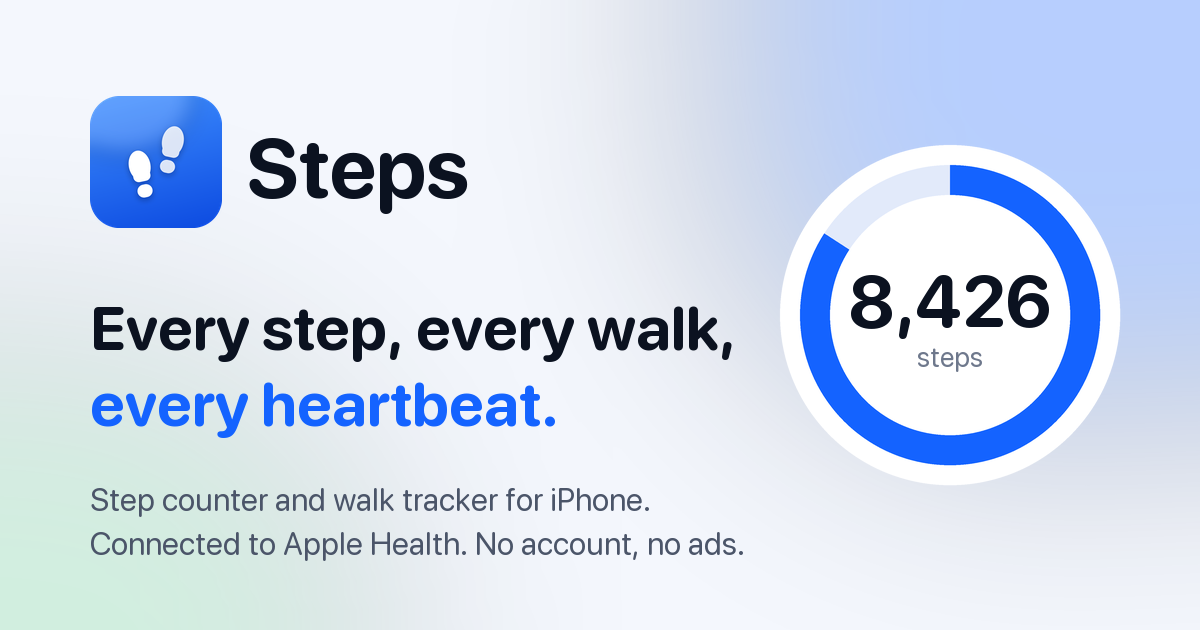
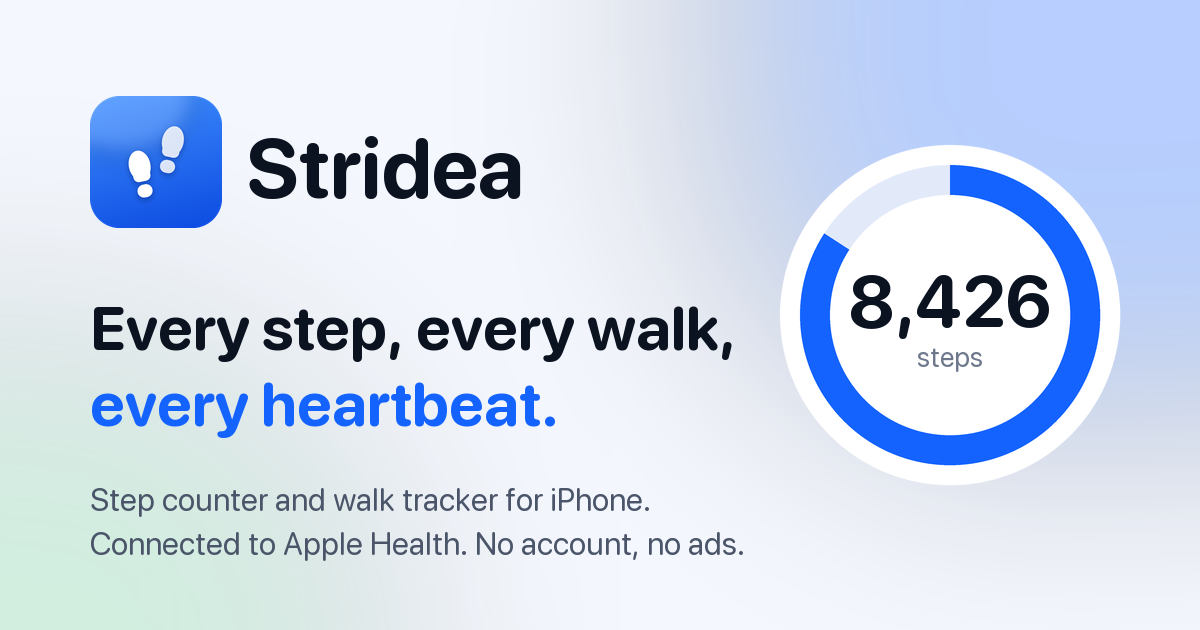
Rename the app to Stridea and serve the site at stridea.ardasnturk.com
- App name, package name, README and the social image now say Stridea
- Mocks and walk copy follow the app: three tabs and a floating walk button
- Add public/CNAME and SITE_URL (canonical, og:url, og:image)
- Deploy to GitHub Pages on every push to main

Changed region(s): [[0.2775, 0.2111, 0.4317, 0.3317]]

diff --git a/src/pages/home/mocks.tsx b/src/pages/home/mocks.tsx
@@ -210,18 +210,18 @@ export function MapArt({ drawn = true, duration = 1600, viewBox = "0 0 300 460",
 /* ---------- Screens ---------- */
 
 function TabBar() {
-  const side: IconName[] = ["target", "calendar", "chart", "heart"];
+  // The app's three tabs (Home, History, Stats) and the floating button that starts a walk.
+  const tabs: IconName[] = ["target", "calendar", "chart"];
   return (
-    <div className="mx-1 flex h-13 shrink-0 items-center justify-between rounded-4xl bg-white px-5 shadow-card dark:bg-ios-card-dark" aria-hidden="true">
-      {side.slice(0, 2).map((name, index) => (
-        <Icon key={name} name={name} className={`h-5 w-5 ${index === 0 ? "text-brand" : "text-gray-400"}`} />
-      ))}
-      <span className="-mt-5 flex h-13 w-13 items-center justify-center rounded-full bg-brand text-white shadow-lg shadow-brand/40 ring-4 ring-ios-bg dark:ring-night">
+    <div className="mx-1 flex shrink-0 items-center gap-2" aria-hidden="true">
+      <div className="flex h-13 flex-1 items-center justify-around rounded-4xl bg-white px-4 shadow-card dark:bg-ios-card-dark">
+        {tabs.map((name, index) => (
+          <Icon key={name} name={name} className={`h-5 w-5 ${index === 0 ? "text-brand" : "text-gray-400"}`} />
+        ))}
+      </div>
+      <span className="flex h-13 w-13 shrink-0 items-center justify-center rounded-full bg-brand text-white shadow-lg shadow-brand/40">
         <Icon name="walk" className="h-6 w-6" />
       </span>
-      {side.slice(2).map((name) => (
-        <Icon key={name} name={name} className="h-5 w-5 text-gray-400" />
-      ))}
     </div>
   );
 }

diff --git a/src/i18n/home/tr.ts b/src/i18n/home/tr.ts
@@ -101,7 +101,7 @@ export const tr: HomeDictionary = {
       walk: {
         label: "Yürüyüşler",
         title: "Yürüyüşünü canlı haritada takip et",
-        text: "Başlamak için ortadaki düğmeye dokun. {app} sen yürüdükçe rotanı çizer; süre, mesafe, adım ve tempo hep gözünün önündedir.",
+        text: "Başlamak için yüzen yürüyüş düğmesine dokun. {app} sen yürüdükçe rotanı çizer; süre, mesafe, adım ve tempo hep gözünün önündedir.",
         points: [
           "Rotanın çizildiği canlı harita",
           "Süre, mesafe, adım ve tempo",
@@ -150,9 +150,9 @@ export const tr: HomeDictionary = {
   walk: {
     eyebrow: "Yürüyüş takibi",
     title: "Tek dokunuşla yürüyüşe başla",
-    subtitle: "Ayar yok, seçilecek mod yok. Ortadaki düğmeye bas ve yürü.",
+    subtitle: "Ayar yok, seçilecek mod yok. Yüzen yürüyüş düğmesine bas ve yürü.",
     steps: [
-      { title: "Ortadaki düğmeye dokun", text: "Yürüyüş hemen başlar, karşına canlı harita gelir." },
+      { title: "Yürüyüş düğmesine dokun", text: "Yürüyüş hemen başlar, karşına canlı harita gelir." },
       { title: "Rotanın oluşmasını izle", text: "Sen ilerledikçe rotan çizilir. Süre, mesafe, adım ve tempo canlı güncellenir; dilediğinde duraklatıp devam edebilirsin." },
       { title: "Apple Sağlık'ta hazır", text: "Bitirdiğinde yürüyüşün, rotasıyla birlikte yürüyüş antrenmanı olarak Apple Sağlık'a kaydedilir." },
     ],

diff --git a/src/i18n/home/en.ts b/src/i18n/home/en.ts
@@ -101,7 +101,7 @@ export const en: HomeDictionary = {
       walk: {
         label: "Walks",
         title: "Track a walk on a live map",
-        text: "Tap the centre button to start. {app} draws your route as you go and keeps time, distance, steps and pace in view.",
+        text: "Tap the floating walk button to start. {app} draws your route as you go and keeps time, distance, steps and pace in view.",
         points: [
           "Live map with your route drawn on it",
           "Timer, distance, steps and pace",
@@ -150,9 +150,9 @@ export const en: HomeDictionary = {
   walk: {
     eyebrow: "Walk tracking",
     title: "Start a walk with one tap",
-    subtitle: "No setup and no modes to choose. Press the centre button and go.",
+    subtitle: "No setup and no modes to choose. Press the floating walk button and go.",
     steps: [
-      { title: "Tap the centre button", text: "The walk starts right away, with a live map in front of you." },
+      { title: "Tap the walk button", text: "The walk starts right away, with a live map in front of you." },
       { title: "Watch it take shape", text: "Your route is drawn as you move. Timer, distance, steps and pace update live, and you can pause and resume." },
       { title: "It's in Apple Health", text: "When you finish, the walk is saved to Apple Health as a walking workout, route included." },
     ],

diff --git a/src/config.ts b/src/config.ts
@@ -5,8 +5,8 @@
  * HTML entries use `%APP_NAME%`, which `vite.config.ts` fills in.
  */
 
-/** Working name. Renaming the app = changing this line. */
-export const APP_NAME = "Steps";
+/** App name. Renaming the app = changing this line. */
+export const APP_NAME = "Stridea";
 export const BUNDLE_ID = "com.ardasnturk.steps";
 export const DEVELOPER = "Arda Sentürk";
 export const SUPPORT_EMAIL = "support@ardasnturk.com";
@@ -20,10 +20,10 @@ export const MIN_IOS = "18";
 export const APP_STORE_URL: string | null = null;
 
 /**
- * Public address of the site without a trailing slash, e.g. "https://steps.example.com".
- * `null` = no domain chosen yet: canonical and og:url tags are left out.
+ * Public address of the site without a trailing slash, must match `public/CNAME`.
+ * `null` = no domain: canonical and og:url tags are left out.
  */
-export const SITE_URL: string | null = null;
+export const SITE_URL: string | null = "https://stridea.ardasnturk.com";
 
 export type ScreenSlot = "today" | "walk" | "zones" | "metrics" | "insights";
 

diff --git a/scripts/make_assets.py b/scripts/make_assets.py
@@ -4,7 +4,7 @@ from pathlib import Path
 from PIL import Image, ImageDraw, ImageFilter, ImageFont
 
 OUT = Path(__file__).resolve().parent.parent / "public" / "assets"
-NAME = sys.argv[1] if len(sys.argv) > 1 else "Steps"
+NAME = sys.argv[1] if len(sys.argv) > 1 else "Stridea"
 TOP, BOTTOM = (62, 142, 255), (12, 74, 224)
 SS = 4  # supersampling
 

diff --git a/README.md b/README.md
@@ -1,8 +1,8 @@
-# Steps website
+# Stridea website
 
-Landing page, privacy policy, terms of use and support page for the step-counter and
-walk-tracker app for iPhone (working name **Steps**; the final name is not decided yet),
-in English and Turkish.
+Landing page, privacy policy, terms of use and support page for **Stridea**, the
+step-counter and walk-tracker app for iPhone, in English and Turkish. Live at
+<https://stridea.ardasnturk.com/>.
 
 What the site presents, and what has to stay in step with the app:
 
@@ -13,7 +13,9 @@ What the site presents, and what has to stay in step with the app:
   ("For You", plus the on-device "Your Week in Words" summary on iPhones with Apple
   Intelligence), walking analysis, motion analysis and walking metrics. PRO items carry
   the `ProBadge` (`src/components/ProBadge.tsx`).
-- **No prices on the site.** They are not set; the copy only names the plan types.
+- **No prices on the site.** The copy only names the plan types; the app shows the prices.
+- **App structure the copy and mocks assume:** three tabs (Home, History, Stats), a
+  floating button that starts a walk, Settings in the header.
 - The privacy policy, terms and support page describe Apple Health, Motion & Fitness,
   location, in-app purchases and RevenueCat. Update them whenever the app starts reading
   new data or adds an SDK.
@@ -44,7 +46,7 @@ Everything that changes with the name or the release lives in `src/config.ts`:
 | `BUNDLE_ID` | `com.ardasnturk.steps` |
 | `SUPPORT_EMAIL`, `DEVELOPER`, `MIN_IOS` | Shown in the copy and the legal pages. |
 | `APP_STORE_URL` | `null` until the app is released: store buttons render as a non-link "Coming soon to the App Store" label. Set it to the App Store URL to turn them into download links. |
-| `SITE_URL` | `null` until a domain is chosen: canonical and `og:url` tags are left out and `og:image` is a relative path. Set it (no trailing slash) once the site has an address. |
+| `SITE_URL` | `https://stridea.ardasnturk.com` (no trailing slash; must match `public/CNAME`). Used for the canonical, `og:url` and `og:image` tags. |
 
 The name is never written out in components or translations. Translations use the tokens
 `{app}`, `{email}`, `{developer}` and `{ios}` (filled in by `src/i18n/index.tsx`); the HTML
@@ -97,7 +99,7 @@ normal Tailwind spacing classes and `fs-<px>` for font sizes (see `.mock` in
 placeholders generated by a script (needs Python with Pillow):
 
 ```bash
-python3 scripts/make_assets.py            # uses the name "Steps"
+python3 scripts/make_assets.py            # uses the name "Stridea"
 python3 scripts/make_assets.py "New Name" # og.png contains the app name
 ```
 
@@ -105,17 +107,14 @@ Replace `icon.png` with the real app icon when it exists.
 
 ## Deployment
 
-Deployment is **manual for now**: the repository is private and no domain has been chosen.
-`.github/workflows/deploy.yml` builds the site and deploys it to GitHub Pages, but only
-when started by hand (Actions › Deploy to GitHub Pages › Run workflow). There is no
-`public/CNAME`.
+Every push to `main` builds the site and deploys it to GitHub Pages
+(`.github/workflows/deploy.yml`; it can also be started by hand from the Actions tab).
+Pages uses "GitHub Actions" as its source.
 
-Once the repository and domain are decided:
+The site is served at the custom domain in `public/CNAME` (`stridea.ardasnturk.com`), a
+DNS `CNAME` record pointing at `ardasnturk.github.io`. To move it, change `public/CNAME`,
+`SITE_URL` in `src/config.ts` and the custom domain in the repository's Pages settings.
 
-1. Enable GitHub Pages for the repository with "GitHub Actions" as the source.
-2. Add `push: { branches: [main] }` under `on:` in the workflow to deploy on every push.
-3. For a custom domain, add `public/CNAME` containing the domain and point DNS at GitHub
-   Pages; set `SITE_URL` in `src/config.ts`.
-4. The site is built for the root of a domain (`base: "/"` in `vite.config.ts`, absolute
-   `/assets/…` paths). To serve it from `https://<user>.github.io/<repo>/` instead, the
-   base path and those absolute paths have to be changed.
+The site is built for the root of a domain (`base: "/"` in `vite.config.ts`, absolute
+`/assets/…` paths). To serve it from `https://<user>.github.io/<repo>/` instead, the base
+path and those absolute paths have to be changed.
